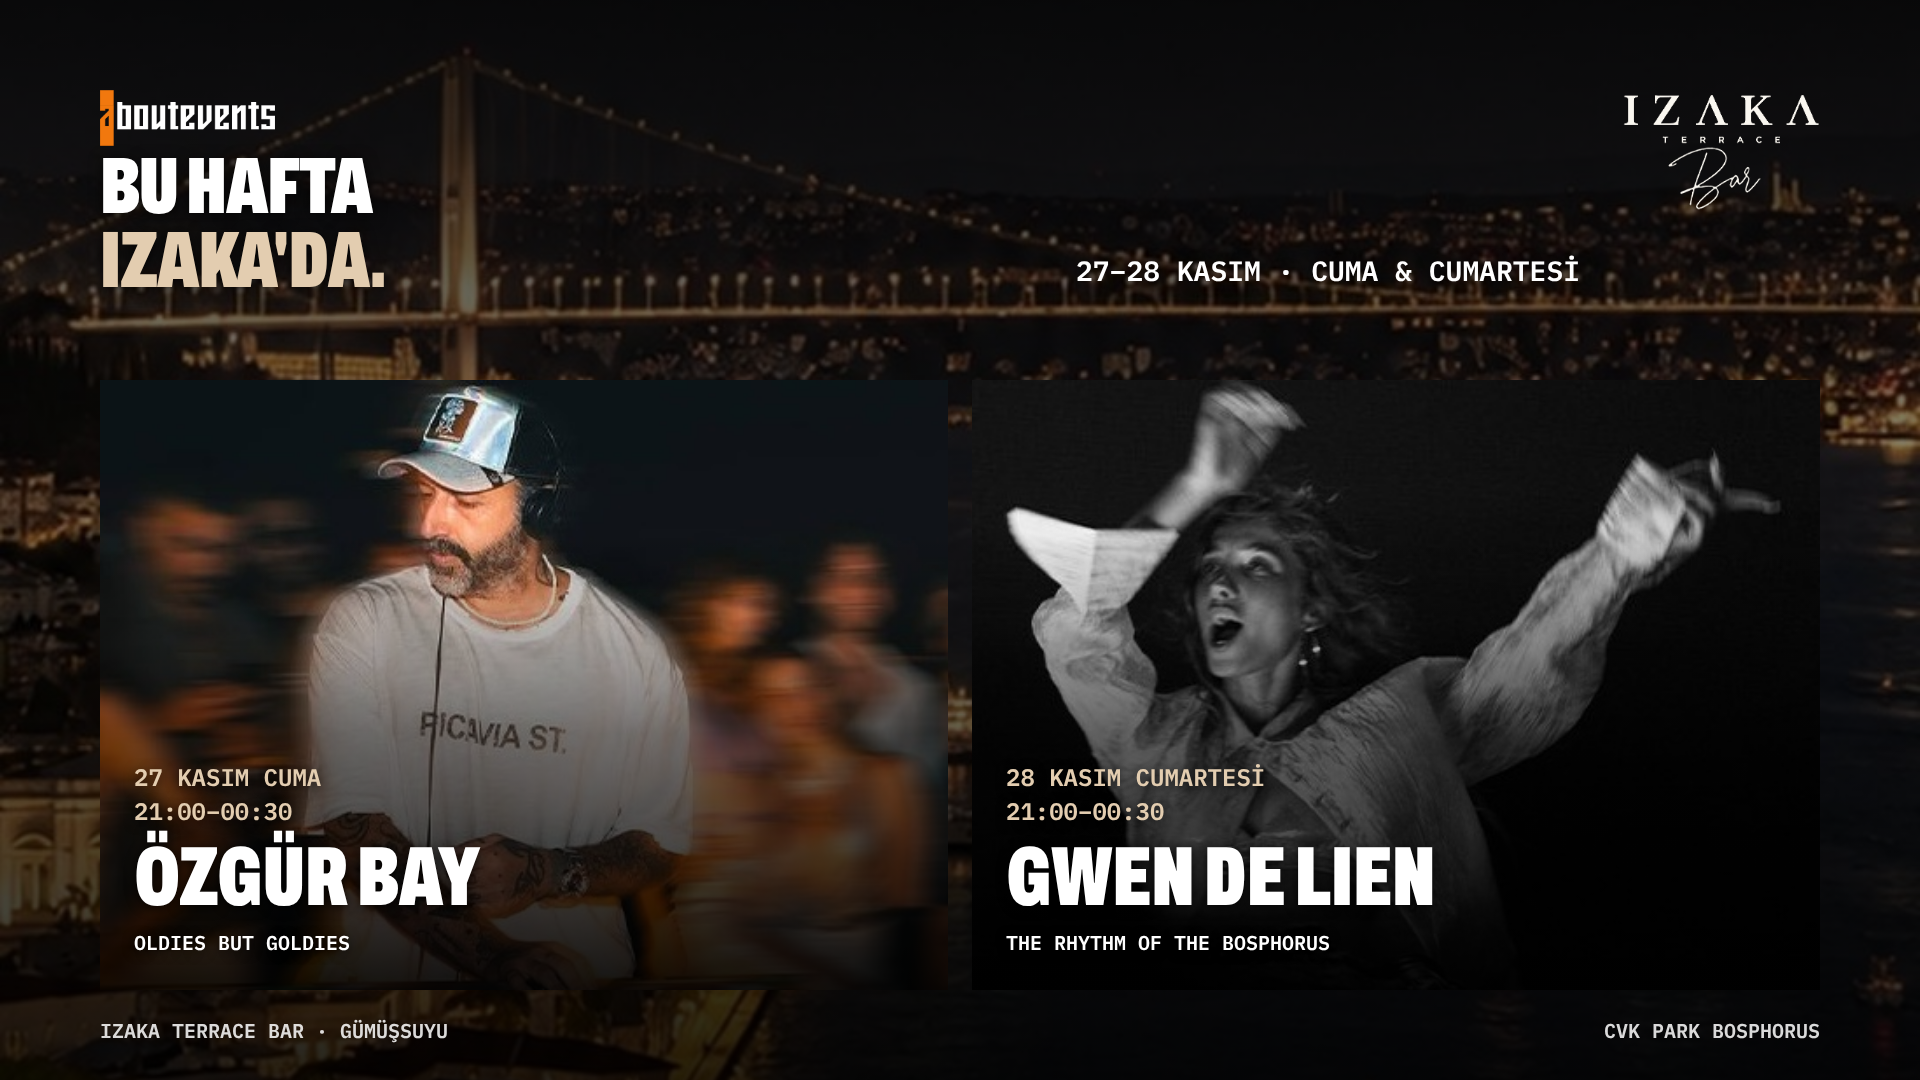
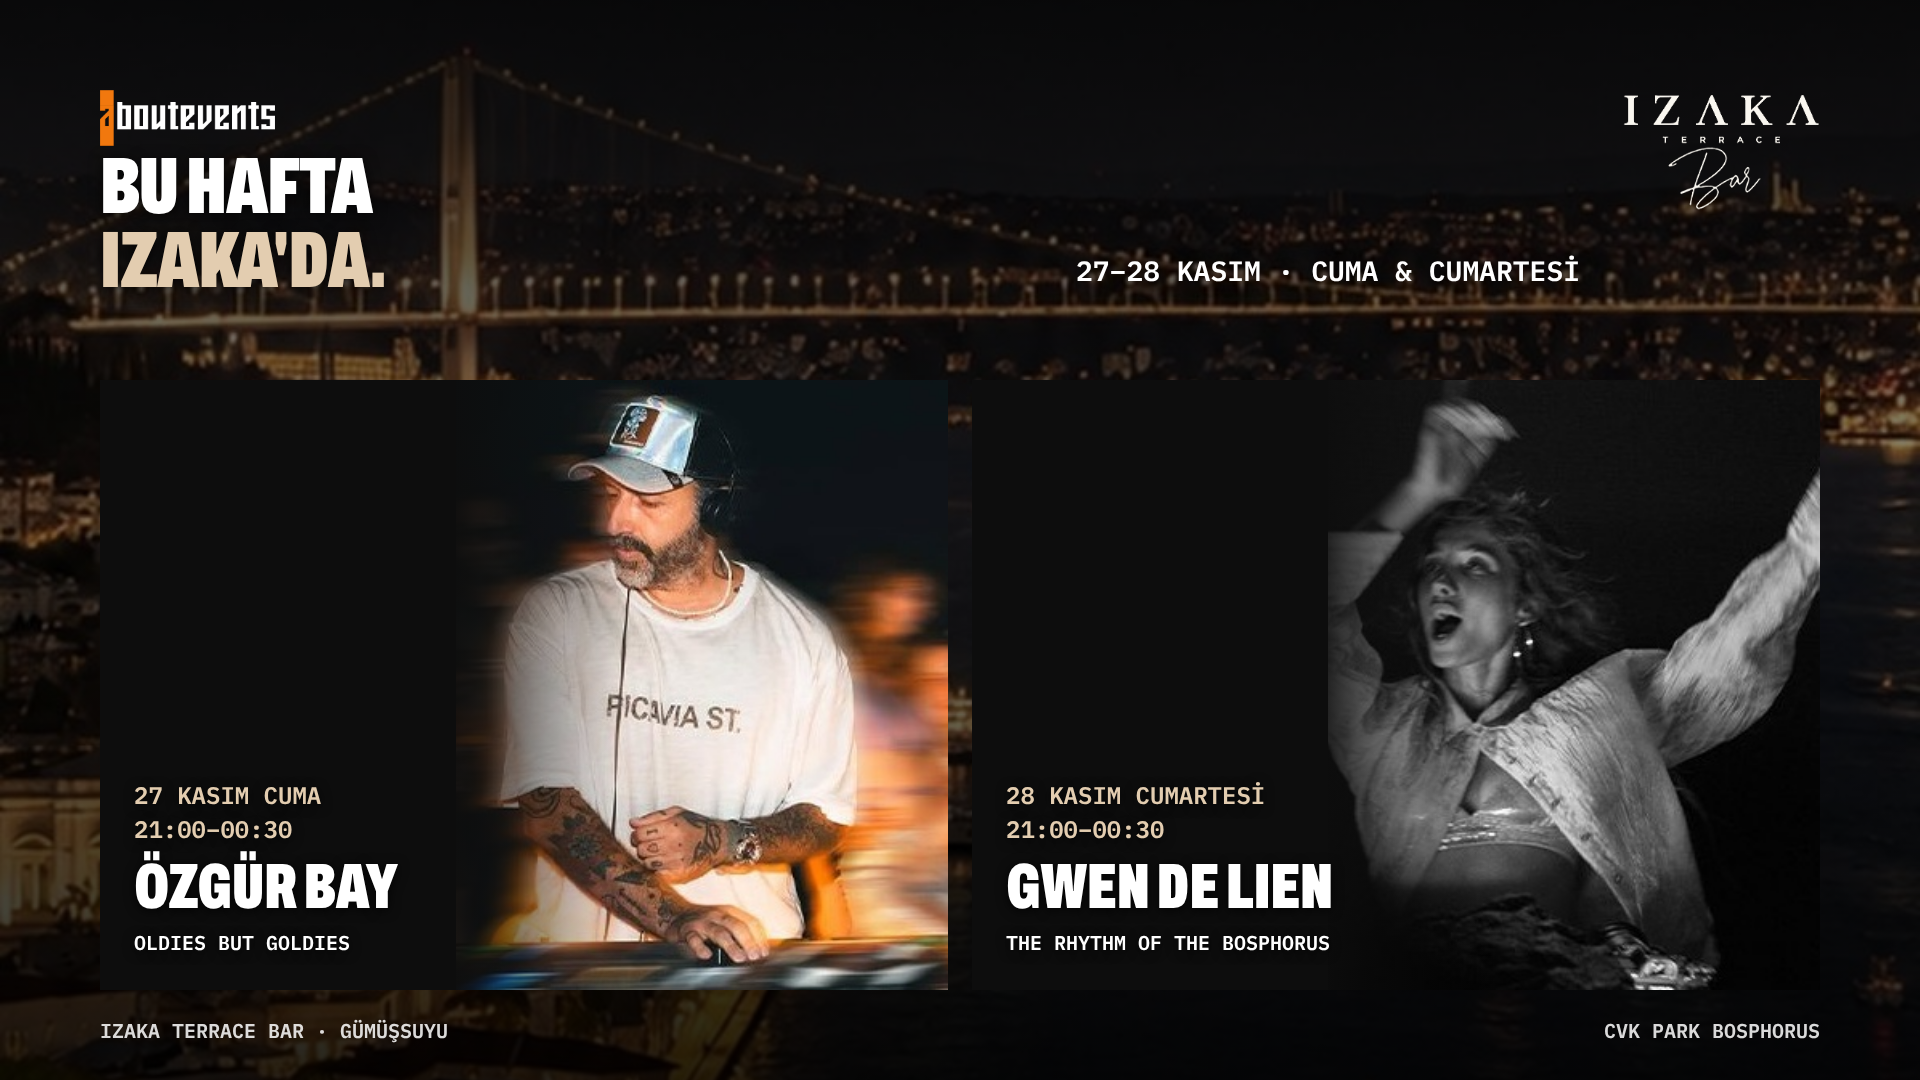
Izaka/ARTI2 haftalık yatay: fotoğraf kartın sağında, yazılar solda (yüzlere yazı binmiyor)
Claude-Session: https://claude.ai/code/session_0179F1r1gaJKuiPNoLVd4rGP

Changed region(s): [[0.0312, 0.3361, 0.9688, 0.9167]]

diff --git a/venues_kit/weekly.py b/venues_kit/weekly.py
@@ -13,16 +13,22 @@ acc = cfg['accent']
 def f(p): return 'file://' + (p if p.startswith('/') else os.path.join(A, p))
 def card(n, vertical, fs, nsup):
     sup = '<br>'.join(n['support'] + ['&nbsp;'] * (nsup - len(n['support'])))
+    if vertical:
+        photo = (f'<img src="{f(n["photo"])}" style="position:absolute;inset:0;width:100%;height:100%;object-fit:cover;object-position:{n.get("pos","50% 30%")}">'
+                 '<div style="position:absolute;inset:0;background:linear-gradient(to top,rgba(0,0,0,.92) 0%,rgba(0,0,0,.55) 42%,rgba(0,0,0,0) 75%)"></div>')
+    else:
+        # yatay: fotoğraf kartın sağında, yazılar solda (yüzün üstüne yazı binmez)
+        photo = (f'<img src="{f(n["photo"])}" style="position:absolute;top:0;right:0;width:58%;height:100%;object-fit:cover;object-position:{n.get("pos_h", n.get("pos","50% 30%"))}">'
+                 '<div style="position:absolute;inset:0;background:linear-gradient(to right,rgba(13,13,13,1) 40%,rgba(13,13,13,.55) 48%,rgba(13,13,13,0) 62%)"></div>')
     return f'''<div style="position:relative;overflow:hidden;background:#0d0d0d">
-<img src="{f(n['photo'])}" style="position:absolute;inset:0;width:100%;height:100%;object-fit:cover;object-position:{n.get('pos','50% 30%')}">
-<div style="position:absolute;inset:0;background:linear-gradient(to top,rgba(0,0,0,.92) 0%,rgba(0,0,0,.55) 42%,rgba(0,0,0,0) 75%)"></div>
-<div style="position:absolute;left:34px;right:30px;bottom:32px;display:flex;flex-direction:column;gap:12px;text-shadow:0 2px 12px rgba(0,0,0,.8)">
+{photo}
+<div style="position:absolute;left:34px;right:{'30px' if vertical else '50%'};bottom:32px;display:flex;flex-direction:column;gap:12px;text-shadow:0 2px 12px rgba(0,0,0,.8)">
 <div style="{M};font-size:24px;color:{acc};line-height:1.4">{n['date']}<br>{n['time']}</div>
 <div style="{C};font-size:{fs}px;line-height:.9;white-space:nowrap">{n['head']}</div>
 <div style="{M};font-size:{n.get('sup_size',20)}px;line-height:1.5">{sup}</div></div></div>'''
 def page(w, h):
     v = h > w
-    k = len(cfg['nights']); cw = ((w - (160 if v else 200)) - 24 * (k - 1)) / k - 64
+    k = len(cfg['nights']); cw = (((w - (160 if v else 200)) - 24 * (k - 1)) / k) * (1 if v else 0.5) - (64 if v else 40)
     fs = int(min(84, min(cw / (len(n['head']) * 0.5) for n in cfg['nights'])))
     nsup = max(len(n['support']) for n in cfg['nights'])
     cards = ''.join(card(n, v, fs, nsup) for n in cfg['nights'])
